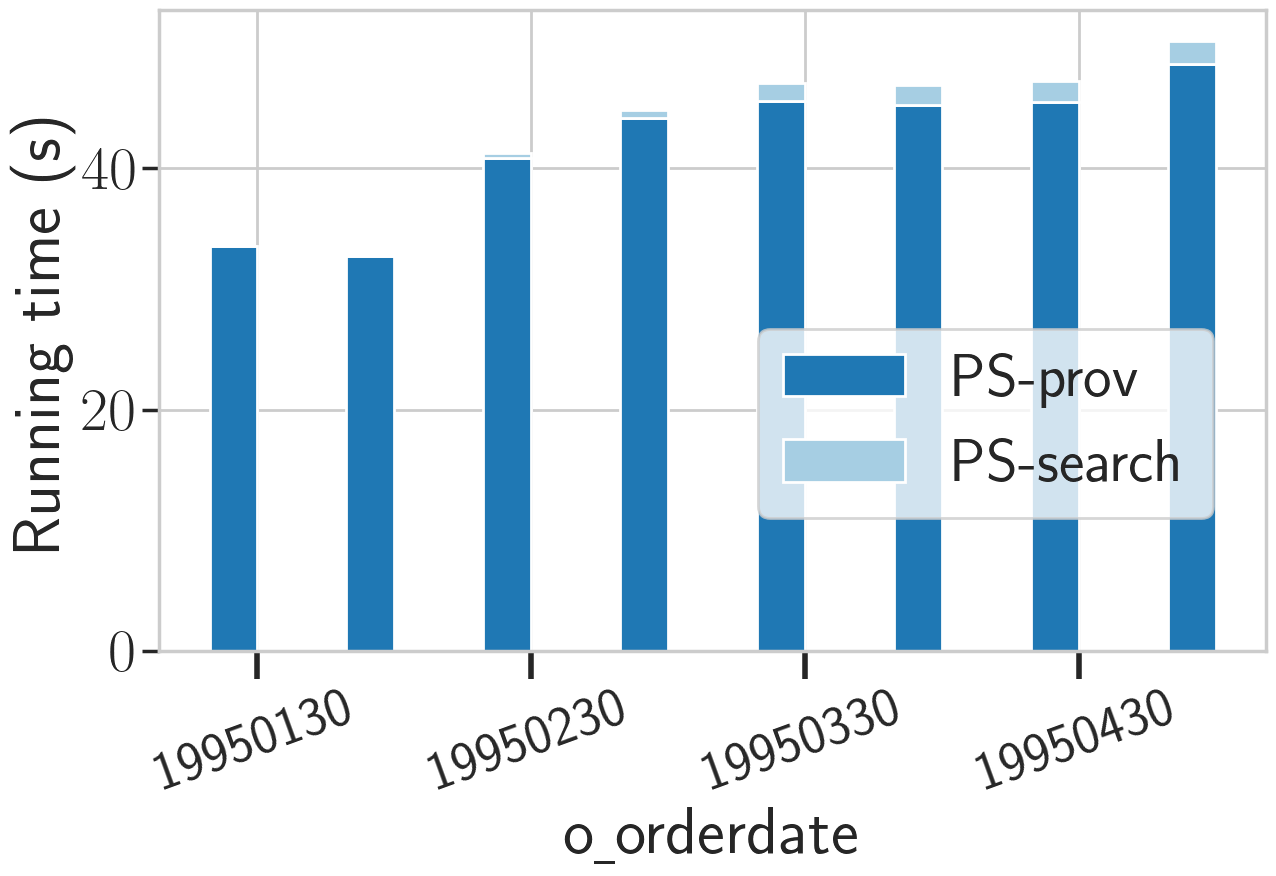
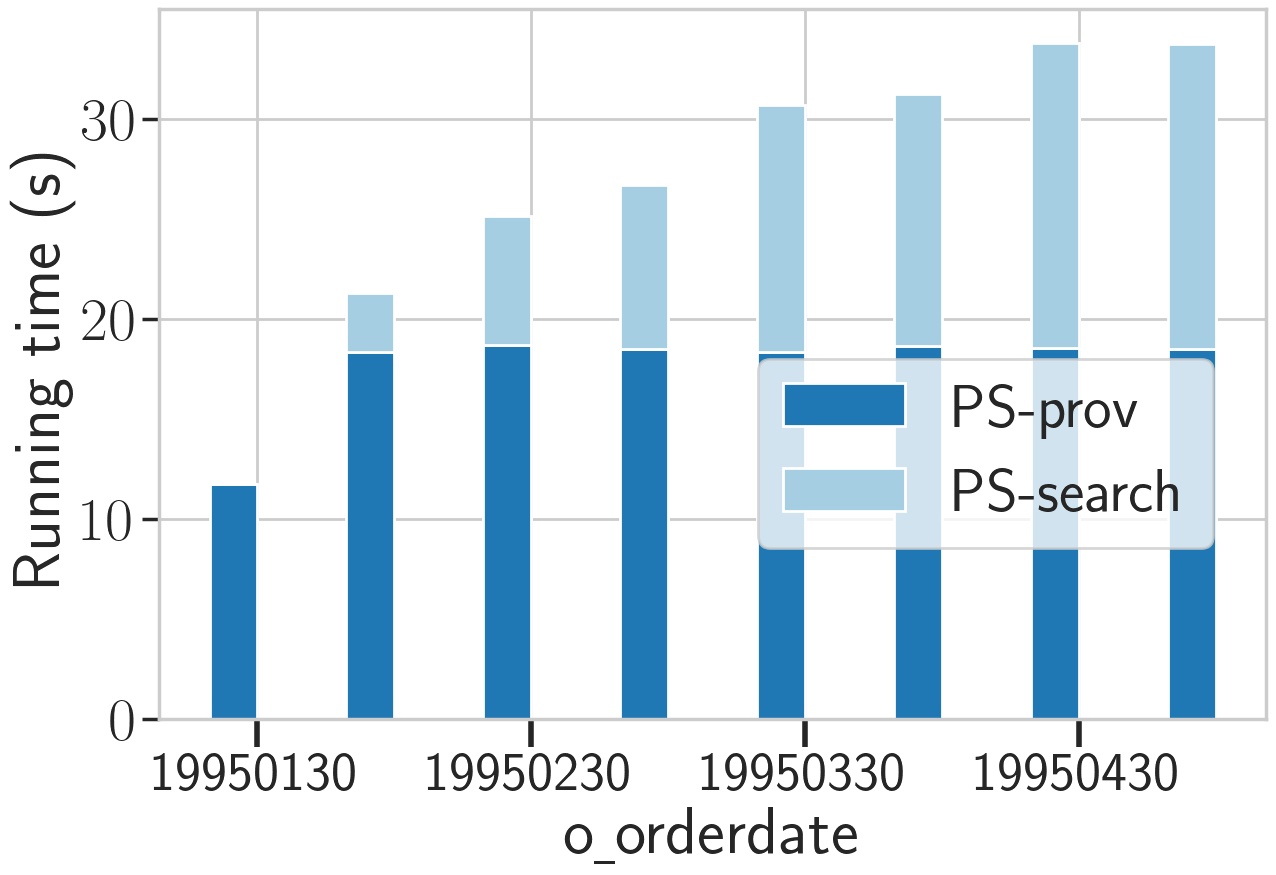
tpch 1G query selectivity q3 contract

diff --git a/Experiment/TPCH/1G/query_selectivity/q3_contract/fig.py b/Experiment/TPCH/1G/query_selectivity/q3_contract/fig.py
@@ -82,7 +82,7 @@ def run(query, size, constraint):
     #         color=color[3], label=label[3])
     #
 
-    plt.xticks(np.arange(0, 8, 2) + bar_width/2, x_list, rotation=20, fontsize=40)
+    plt.xticks(np.arange(0, 8, 2) + bar_width/2, x_list, rotation=0, fontsize=40)
 
     plt.xlabel(r'o\underline{ }orderdate')
     plt.ylabel('Running time (s)')
